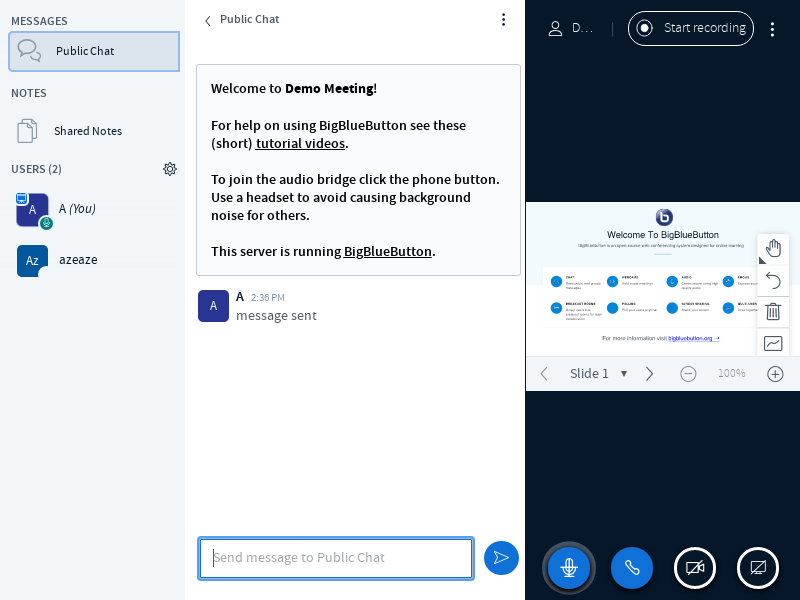
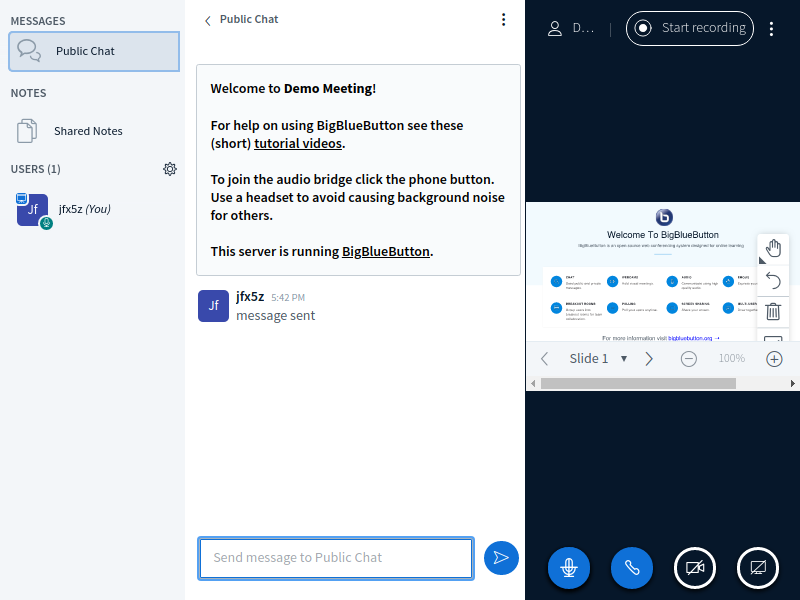
adding a second page

diff --git a/app.js b/app.js
@@ -1,52 +1,77 @@
 const puppeteer = require('puppeteer');
 
 (async () => {
-    const browser = await puppeteer.launch({
+    browser = await puppeteer.launch({
+        headless: false,
         args: [ '--use-fake-ui-for-media-stream' ]
     });
-    const page = await browser.newPage();
+    const page1 = await browser.newPage();
     try {
-        await page.goto('https://8d1ab45384a1.bbbvm.imdt.com.br');
-        await page.screenshot({path: 'images/1-home-page.png'});
-        await page.type('#username', 'A');
+        await page1.goto('https://8d1ab45384a1.bbbvm.imdt.com.br');
+        await page1.screenshot({path: 'images/1-home-page.png'});
+        let r = Math.random().toString(36).substring(7);
+        await page1.type('#username', r);
 
-        page.click('.submit_btn');
+        page1.click('.submit_btn');
         
-        await page.waitFor(9000);
-        await page.click('.icon-bbb-unmute');
-        await page.waitFor(9000);
-        await page.click('.icon-bbb-thumbs_up');
-        await page.screenshot({path: 'images/2-echo-test-thumb-up.png'});
-        await page.waitFor(9000);
-        await page.screenshot({path: 'images/3-microphone-connection.png'});
+        await page1.waitFor(9000);
+        await page1.waitFor('.icon-bbb-unmute');
+        await page1.click('.icon-bbb-unmute');
+        await page1.waitFor(20000);
+        await page1.waitFor('.icon-bbb-thumbs_up');
+        await page1.click('.icon-bbb-thumbs_up');
+        await page1.screenshot({path: 'images/2-echo-test-thumb-up.png'});
+        await page1.waitFor(9000);
+        await page1.screenshot({path: 'images/3-microphone-connection.png'});
 
-        await page.keyboard.type( "message sent", {
+        await page1.keyboard.type( "message sent", {
             delay: 100
         });
 
-        await page.keyboard.press('Enter', {
+        await page1.keyboard.press('Enter', {
             delay: 100
         });
     
-        await page.waitFor(3000);
-        await page.screenshot({path: 'images/4-text-message-sent.png'});
-        await page.waitFor('[aria-label="Options"]');
-        await page.click('[aria-label="Options"]');
-        await page.screenshot({path: 'images/5-Options-clicked.png'});
-        await page.waitFor(3000);
-        await page.waitFor('[aria-labelledby="dropdown-item-label-14"]');
-        await page.click('[aria-labelledby="dropdown-item-label-14"]');
-        await page.screenshot({path: 'images/6-End-Meeting-window.png'});
-        await page.waitFor(3000);
-        await page.waitFor('[aria-label="Yes"]');
-        await page.click('[aria-label="Yes"]');
-        // await page.screenshot({path: 'Logout-clicked.png'});
+        await page1.waitFor(3000);
+        await page1.screenshot({path: 'images/4-text-message-sent.png'});
+        await page1.waitFor('[aria-label="Options"]');
+        await page1.click('[aria-label="Options"]');
+        await page1.screenshot({path: 'images/5-Options-clicked.png'});
+        await page1.waitFor(3000);
+        await page1.waitFor('[aria-labelledby="dropdown-item-label-14"]');
+        await page1.click('[aria-labelledby="dropdown-item-label-14"]');
+        await page1.screenshot({path: 'images/6-End-Meeting-window.png'});
+        await page1.waitFor(3000);
+        await page1.waitFor('[aria-label="Yes"]');
+        await page1.click('[aria-label="Yes"]');
+        // await page1.screenshot({path: 'Logout-clicked.png'});
         
-        await page.waitFor(3000);
-        await page.screenshot({path: 'images/7-Logout-feedback-screen.png'});
+        await page1.waitFor(3000);
+        await page1.screenshot({path: 'images/7-Logout-feedback-screen.png'});
         browser.close();
     } catch (error) {
-        console.error({ error }, 'Something happened!');
+        console.error({ error }, 'Something happened at page1');
+        await page1.screenshot({path: 'images/error.png'});
+        await page1.waitFor(3000);
+        browser.close();
+    }
+    browser2 = await puppeteer.launch({
+        headless: false,
+        args: [ '--use-fake-ui-for-media-stream' ]
+    });
+    const page2 = await browser2.newPage();
+    try {
+        await page2.goto('https://8d1ab45384a1.bbbvm.imdt.com.br');
+        await page1.screenshot({path: 'images/page2-opening.png'});
+        await page2.waitFor(3000);
+        browser.close();
+
+
+
+    } catch (error) {
+        console.error({error}, 'Something happened at page2')
+        await page2.screenshot({path: 'images/error-at-page2.png'});
+        await page2.waitFor(3000);
         browser.close();
     }
 })();
